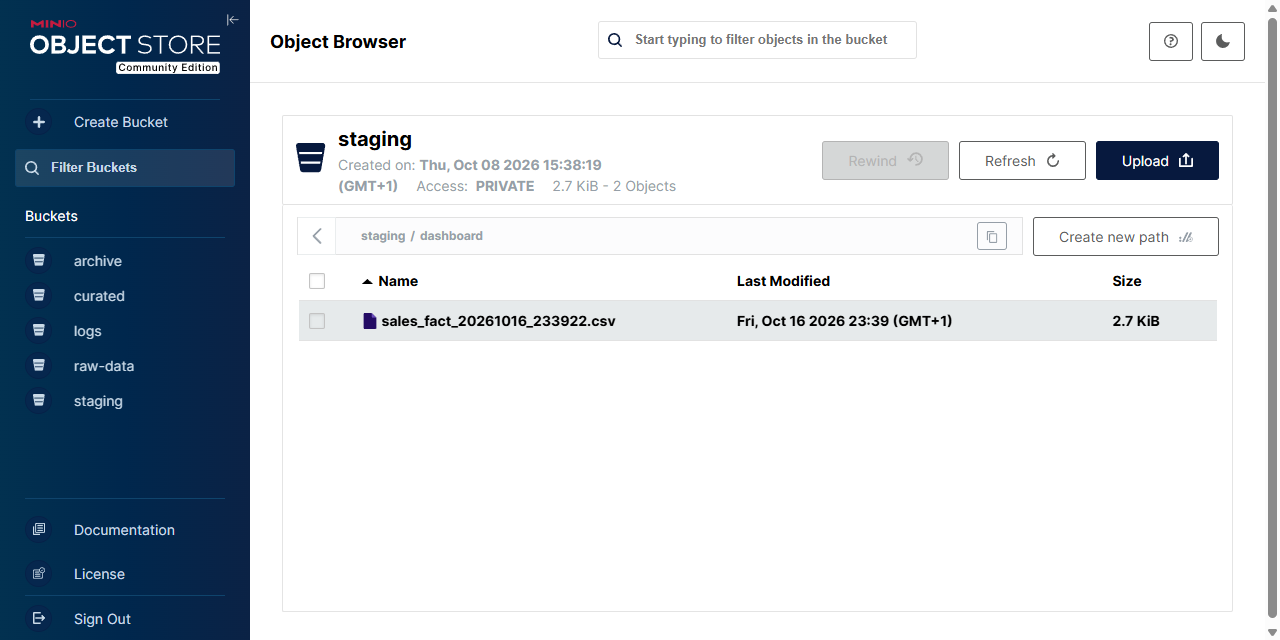
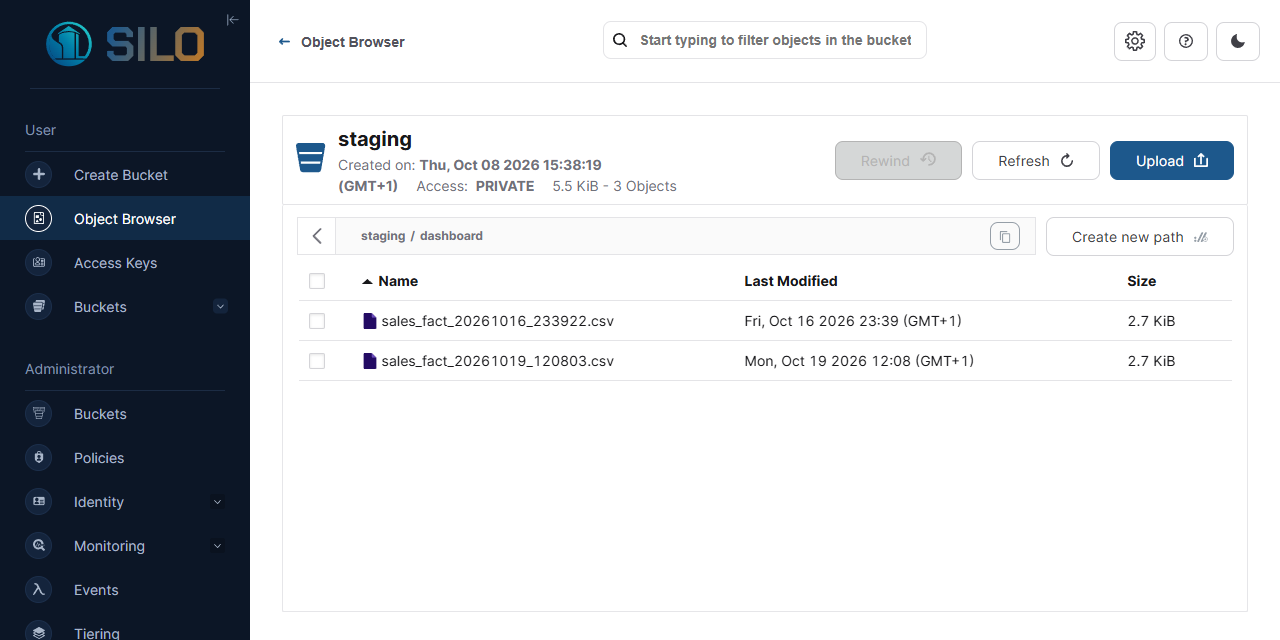
Update developer-di-practitioner from the Content Editor

diff --git a/developer-di-practitioner/19-mod3-minio/guide.md b/developer-di-practitioner/19-mod3-minio/guide.md
@@ -54,6 +54,20 @@ Set-Location C:\Pentaho\design-tools\data-integration
    Invoke-WebRequest http://127.0.0.1:9000/minio/health/live -UseBasicParsing | Select-Object StatusCode
    ```
 
+<div align="center">
+<figure>
+<img src="../_assets/images/minio-silo-sign-in.png" alt="The SILO console sign-in page at 127.0.0.1:9099: Username and Password fields and a Login button, beside the note that SILO is a community-maintained MinIO" width="800">
+<figcaption>The console sign-in page: SILO, a community build of MinIO</figcaption>
+</figure>
+</div>
+
+<div align="center">
+<figure>
+<img src="../_assets/images/minio-silo-raw-data.png" alt="The console Object Browser on the raw-data bucket: the csv, finance, json and xml folders" width="800">
+<figcaption>After sign-in: the raw-data bucket and its folders</figcaption>
+</figure>
+</div>
+
 3. In Spoon, open the **View** tab, right-click **VFS Connections** and select **New...**. In the **New VFS Connection** dialog, set:
 
 | Setting                | Value                   |
@@ -67,9 +81,23 @@ Set-Location C:\Pentaho\design-tools\data-integration
 | **Signature Version**  | `AWSS3V4SignerType`     |
 | **PathStyle Access**   | selected                |
 
+<div align="center">
+<figure>
+<img src="../_assets/images/minio-vfs-connection.png" alt="New VFS Connection: connection name MinIO, connection type Amazon S3/Minio/HCP, S3 connection type Minio/HCP, access key and secret key masked, endpoint http://127.0.0.1:9000, signature version AWSS3V4SignerType, PathStyle Access selected" width="706">
+<figcaption>The MinIO connection, filled in</figcaption>
+</figure>
+</div>
+
 4. Select **Test**.
 
 > **Success:** Checkpoint: Spoon reports `Connection was successfully established.` With **Signature Version** empty, the test fails with `unknown signer type: aws.endpoint`.
+
+<div align="center">
+<figure>
+<img src="../_assets/images/minio-vfs-connection-test.png" alt="Spoon's message after Test: Connection was successfully established" width="305">
+<figcaption>The test result</figcaption>
+</figure>
+</div>
 
 5. Select **OK**. The connection is saved for every transformation on this machine, so you create it once.
 
@@ -357,11 +385,41 @@ Choose one workshop from the tabs below and build it. Save the transformation in
 
    `sale_id`, `sale_date`, `customer_id`, `customer_full_name`, `customer_country`, `customer_status`, `product_id`, `product_name`, `product_category`, `quantity`, `unit_price`, `sale_amount`, `line_total`, `discount_amount`, `is_high_value`, `payment_method`, `status`, `etl_timestamp`, `data_source`
 
+<div align="center">
+<figure>
+<img src="../_assets/images/minio-sales-select-values.png" alt="Select values, Select &amp; Alter tab: the 19 fields from sale_id to data_source in order, with status renamed to sale_status" width="686">
+<figcaption>Select values: the fields in order, status renamed to sale_status</figcaption>
+</figure>
+</div>
+
 3. Select **OK**.
 4. On the **Design** tab, open the **Output** folder and drag **Text file output** onto the canvas. Create a hop from **Select values** to it, double-click it and set **Step name** to `Write to staging`.
 5. On the **File** tab, set **Filename** to `pvfs://MinIO/staging/dashboard/sales_fact` and **Extension** to `csv`, and select **Include date in filename?** and **Include time in filename?**.
+
+<div align="center">
+<figure>
+<img src="../_assets/images/minio-sales-write-staging-file.png" alt="Text file output, File tab: step name Write to staging, filename pvfs://MinIO/staging/dashboard/sales_fact, extension csv, date and time included in the filename" width="800">
+<figcaption>Write to staging: the File tab</figcaption>
+</figure>
+</div>
+
 6. On the **Content** tab, set **Separator** to `,` and keep **Header** selected.
+
+<div align="center">
+<figure>
+<img src="../_assets/images/minio-sales-write-staging-content.png" alt="Text file output, Content tab: separator comma, Header selected" width="800">
+<figcaption>Write to staging: the Content tab</figcaption>
+</figure>
+</div>
+
 7. On the **Fields** tab, select **Get Fields**, then **Minimal width**.
+
+<div align="center">
+<figure>
+<img src="../_assets/images/minio-sales-write-staging-fields.png" alt="Text file output, Fields tab: the 19 fields from Get Fields, set to minimal width" width="800">
+<figcaption>Write to staging: the Fields tab after Minimal width</figcaption>
+</figure>
+</div>
 
 > **Warning:** Select **Minimal width**. Without it, Text file output pads every String to its declared length, and `USA` is written as `USA` followed by spaces.
 
@@ -371,7 +429,7 @@ Choose one workshop from the tabs below and build it. Save the transformation in
 
 <div align="center">
 <figure>
-<img src="../_assets/images/minio-dashboard-data.png" alt="MinIO console: the staging bucket's dashboard folder with the sales_fact CSV file" width="800">
+<img src="../_assets/images/minio-dashboard-data.png" alt="The console Object Browser on staging, dashboard folder: the sales_fact CSV files the transformation wrote, one per run" width="800">
 <figcaption>The output in MinIO</figcaption>
 </figure>
 </div>
@@ -1251,6 +1309,14 @@ What the script decides, row by row:
 > Add and set up **Sort rows**.
 
 1. From the **Transform** folder, drag **Sort rows** onto the canvas. Create a hop from **Memory group by** to it, double-click it and set **Step name** to `Final Customer Sort`. Fill the **Fields** grid with one row: **Fieldname** `customer_id`, **Ascending** `Y`, **Case sensitive compare?** `N`. Select **OK**.
+
+<div align="center">
+<figure>
+<img src="../_assets/images/minio-c360-final-customer-sort.png" alt="Sort rows: step name Final Customer Sort, one field customer_id ascending, not case sensitive" width="800">
+<figcaption>Final Customer Sort: customer_id, ascending</figcaption>
+</figure>
+</div>
+
 2. Save the transformation (`Ctrl+S`).
 3. Select **Final Customer Sort** on the canvas, press `F10` (**Action > Preview**), and select **Quick Launch**.
 
@@ -1436,6 +1502,13 @@ var is_product_view = (event_type == "product_view") ? 1 : 0;
 
 <div align="center">
 <figure>
+<img src="../_assets/images/minio-c360-sort-events.png" alt="Sort rows: step name Sort Events, one field user_id ascending, not case sensitive" width="800">
+<figcaption>Sort Events: user_id, ascending</figcaption>
+</figure>
+</div>
+
+<div align="center">
+<figure>
 <img src="../_assets/images/19-minio-canvas-sort-events.png" alt="customer_360.ktr on the Spoon canvas after this tab: Sort Sales, Final Customer Sort, JSON input, MJV - Define Events, Memory group by, Read Customers, Read Sales, Read User Events, Sort Events and Sort Customers, with the 7 hops between them" width="524">
 <figcaption>The canvas after Sort Events</figcaption>
 </figure>
@@ -1489,6 +1562,14 @@ var is_product_view = (event_type == "product_view") ? 1 : 0;
 > Add and set up **Sort rows**.
 
 1. From the **Transform** folder, drag **Sort rows** onto the canvas. Create a hop from **Group by User** to it, double-click it and set **Step name** to `Final User Sort`. Fill the **Fields** grid with one row: **Fieldname** `user_id`, **Ascending** `Y`, **Case sensitive compare?** `N`. Select **OK**.
+
+<div align="center">
+<figure>
+<img src="../_assets/images/minio-c360-final-user-sort.png" alt="Sort rows: step name Final User Sort, one field user_id ascending, not case sensitive" width="800">
+<figcaption>Final User Sort: user_id, ascending</figcaption>
+</figure>
+</div>
+
 2. Save the transformation (`Ctrl+S`).
 3. Select **Final User Sort** on the canvas, press `F10` (**Action > Preview**), and select **Quick Launch**.
 
@@ -3152,6 +3233,14 @@ P001        Laptop Pro 15   Electronics           45        xml    <- again, and
 3. Select **New validation**, enter `product_id required`, and select **OK**. Set **Name of field to validate** to `product_id`, and clear **Null allowed?**.
 4. Select **New validation**, enter `product_name required`, and select **OK**. Set **Name of field to validate** to `product_name`, and clear **Null allowed?**.
 5. Select **New validation**, enter `price not negative`, and select **OK**. Set **Name of field to validate** to `price`, keep **Null allowed?** selected (the XML feed has no price), set **Data type** to `Number` and **Minimum value** to `0`.
+
+<div align="center">
+<figure>
+<img src="../_assets/images/minio-lake-validate-product-data.png" alt="Data validator: step name Validate Product Data with three validations, product_id required, product_name required and price not negative; price not negative is selected, validating price as a Number with Null allowed and minimum value 0" width="800">
+<figcaption>Validate Product Data: the three validations, price not negative selected</figcaption>
+</figure>
+</div>
+
 6. Select **OK**.
 
 ### 16. Write Valid Products
@@ -3167,9 +3256,24 @@ P001        Laptop Pro 15   Electronics           45        xml    <- again, and
 3. Create a hop from **Validate Product Data** to **Write Error Records** and select **Error handling of step**.
 4. Right-click **Validate Product Data** and select **Error Handling...**. In the **Step error handling settings** dialog, set **Error descriptions fieldname** to `validation_errors`, and select **OK**.
 
+<div align="center">
+<figure>
+<img src="../_assets/images/minio-lake-error-handling.png" alt="Step error handling settings: error handling step Validate Product Data, target step Write Error Records, error handling enabled, error descriptions fieldname validation_errors" width="763">
+<figcaption>Error handling: failing rows go to Write Error Records with validation_errors</figcaption>
+</figure>
+</div>
+
 > **Note:** **Data validator** routes failing rows through its error hop; there is no "validation result" field on the good rows to filter on.
 
 5. Double-click **Write Valid Products**. On the **File** tab, set **Filename** to `pvfs://MinIO/curated/products/products` and **Extension** to `csv`, and select **Include date in filename?**. On the **Content** tab, set **Separator** to `,`. On the **Fields** tab, select **Get Fields**, then **Minimal width**. Select **OK**.
+
+<div align="center">
+<figure>
+<img src="../_assets/images/minio-lake-write-valid-products-file.png" alt="Text file output, File tab: step name Write Valid Products, filename pvfs://MinIO/curated/products/products, extension csv, date included in the filename" width="800">
+<figcaption>Write Valid Products: the File tab</figcaption>
+</figure>
+</div>
+
 6. Set up **Write Error Records** the same way, with **Filename** `pvfs://MinIO/curated/products/errors/validation_errors`. Its **Get Fields** adds `validation_errors` after the product fields.
 7. Save the transformation (`Ctrl+S`).
 8. Press `F9` (**Action > Run**), and select **Run** in the **Run Options** dialog.

diff --git a/developer-di-practitioner/00-before-you-start/guide.md b/developer-di-practitioner/00-before-you-start/guide.md
@@ -434,6 +434,13 @@ your transformations see.
 The lab runs a community build of MinIO (`pgsty/minio`), so its sign-in
 page is branded **SILO**; the console behind it is MinIO's.
 
+<div align="center">
+<figure>
+<img src="../_assets/images/minio-silo-sign-in.png" alt="The SILO console sign-in page at 127.0.0.1:9099: Username and Password fields and a Login button, beside the note that SILO is a community-maintained MinIO" width="800">
+<figcaption>The MinIO console sign-in page, branded SILO</figcaption>
+</figure>
+</div>
+
 <details>
 <summary>Troubleshooting</summary>
 
